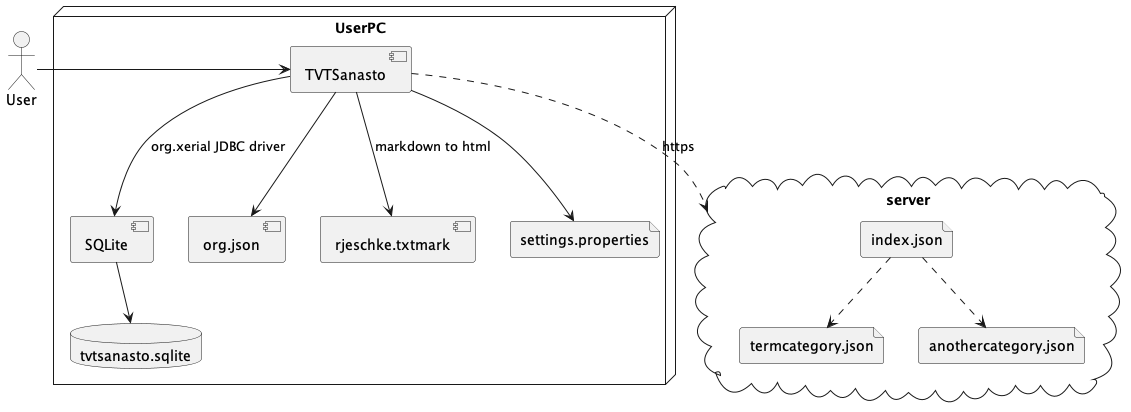
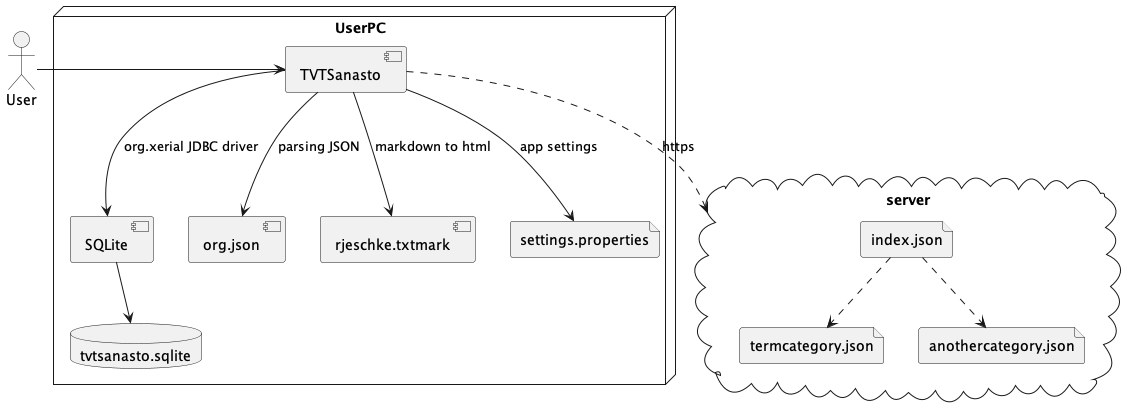
Updated docs. Some logging added

diff --git a/src/main/java/fi/oulu/tol/TVTSanasto.java b/src/main/java/fi/oulu/tol/TVTSanasto.java
@@ -195,6 +195,7 @@ public class TVTSanasto implements ActionListener, WindowListener {
 		logger.info("Quitting the app");
 		provider.close();
 		frame.dispose();
+		logger.info("Main frame disposed, process should end soon.");
 	}
 
 	@Override

diff --git a/README.md b/README.md
@@ -1,6 +1,6 @@
 # TVT Sanasto
 
-The **TVT Sanasto** Java/Swing app aims to help in learning the basic terms in the area of Information and Communication Technologies (ICT) in Finnish and English. TVT means Tieto- ja viestintäteknologiat (ICT).
+The **TVT Sanasto** Java/Swing app aims to help in learning the basic terms in the area of Information and Communication Technologies (ICT) in Finnish and English. TVT (Finnish) means Tieto- ja viestintäteknologiat (ICT in English).
 
 ![App screenshot](screenshot.png)
 
@@ -10,7 +10,7 @@ The app fetches an index of term categories from a server. This index file is in
 
 App fetches each of the categories and terms listed in the index file, parses the JSON files and stores the categories and terms in the user's computer in a SQLite database. The terms can then be studied without network connection or consuming the network bandwidth. User can later fetch updates (if any) both to the index and the categories of terms by using the menus in the app.
 
-User may also sort the terms by language and search the terms using keywords. App then lists only those terms containing the keyword.
+User may also sort the terms by language and search the terms. App then lists only those terms containing the searched word.
 
 ## Dependencies
 
@@ -18,9 +18,9 @@ The app uses the following Java version 18 features and components:
 
 * Java SE JDK version 18 or newer from https://openjdk.org/install/ 
 * Maven for project configuration from https://maven.apache.org/install.html 
+* SQLite runtime. If not already installed, get it from https://www.sqlite.org,
 * AWT and Swing for the user interface (included in the Java JDK),
 * org.json for parsing JSON content (installed by Maven automatically),
-* SQLite runtime. If not already installed, get it from https://www.sqlite.org,
 * org.xerial JDBC driver for SQLite (installed by Maven automatically),
 * Apache log4j for logging (latest version with fixes to the recent vulnerabilities found, installed by Maven automatically),
 * com.github.rjeschke txtmark for converting markdown text formatting to HTML in Swing JEditorPane (installed by Maven automatically).
@@ -54,7 +54,7 @@ The first time the app is executed, it will download the index and term JSON fil
 
 As mentioned, terms and categories are server hosted JSON files. If you are interested in contributing to the existing terms JSON files or creating new ones, please contact me.
 
-If you wish to support other languages than Finnish/English, please do fork the project and modify it to your needs and create the necessary JSON files for your preferred languages.
+If you wish to support other languages than Finnish/English, feel free to fork the project (it is MIT licensed) and modify it to your needs and create the necessary JSON files for your preferred languages.
 
 ## License
 
